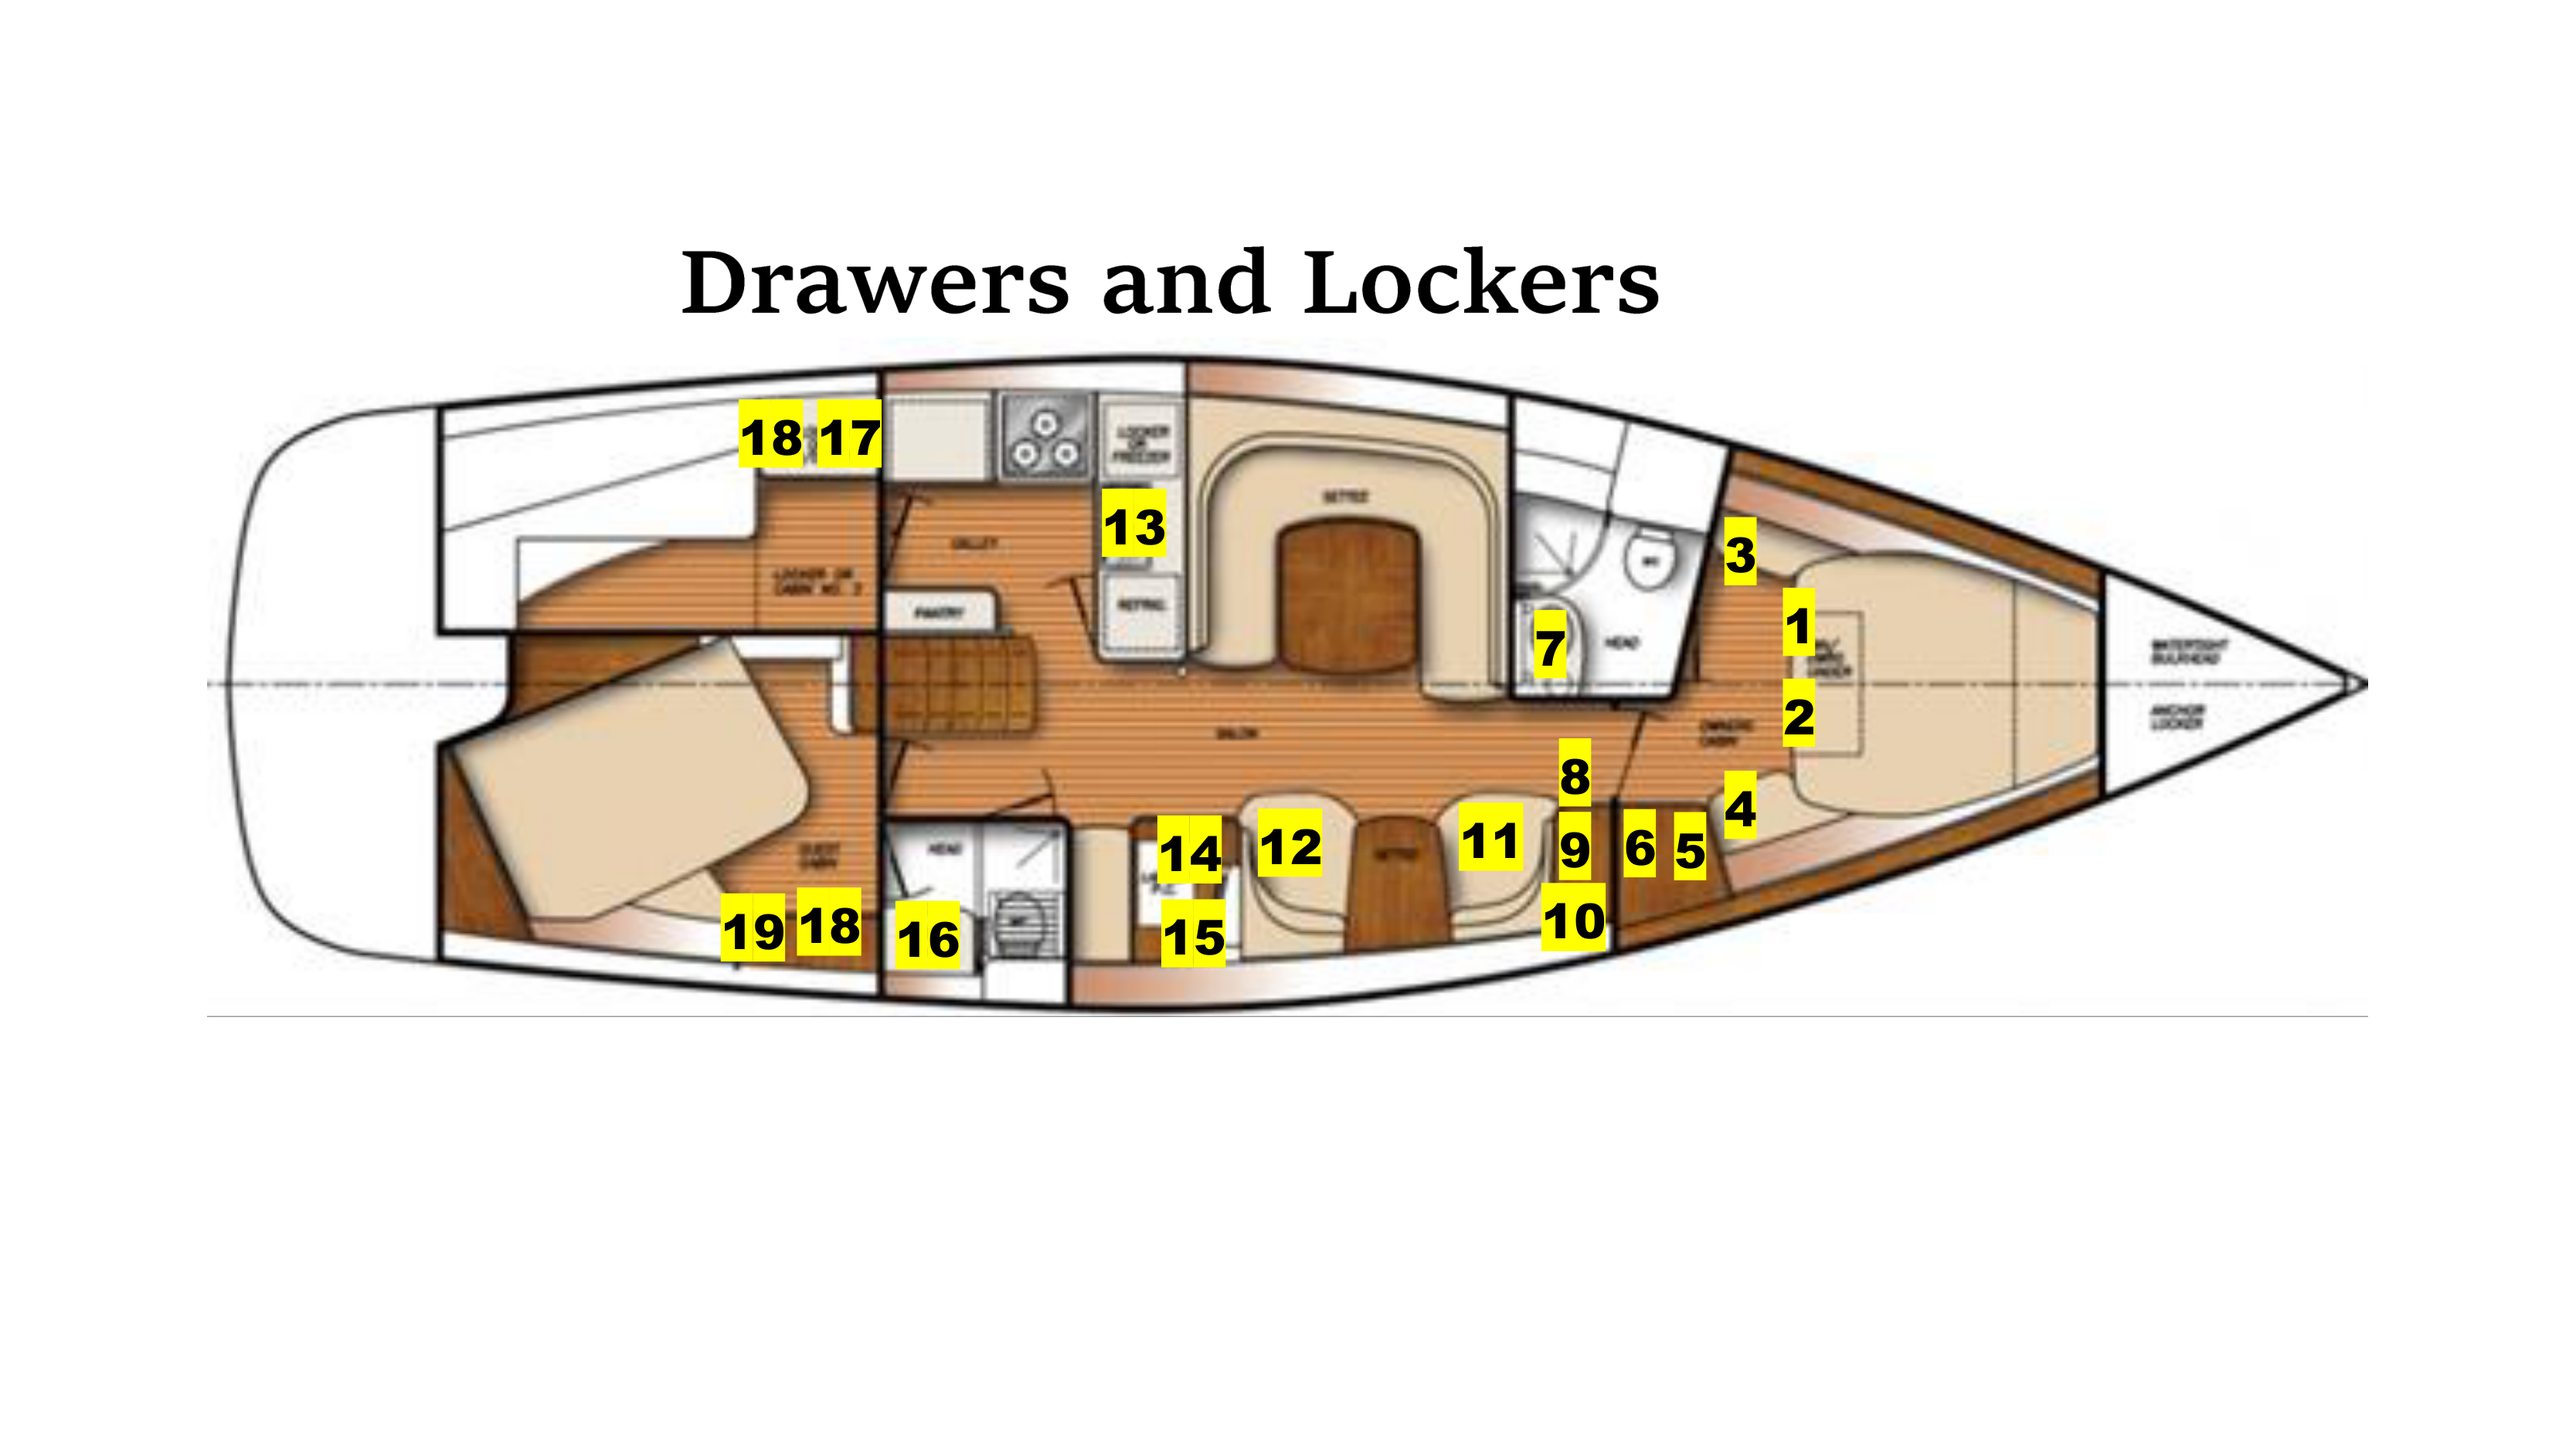
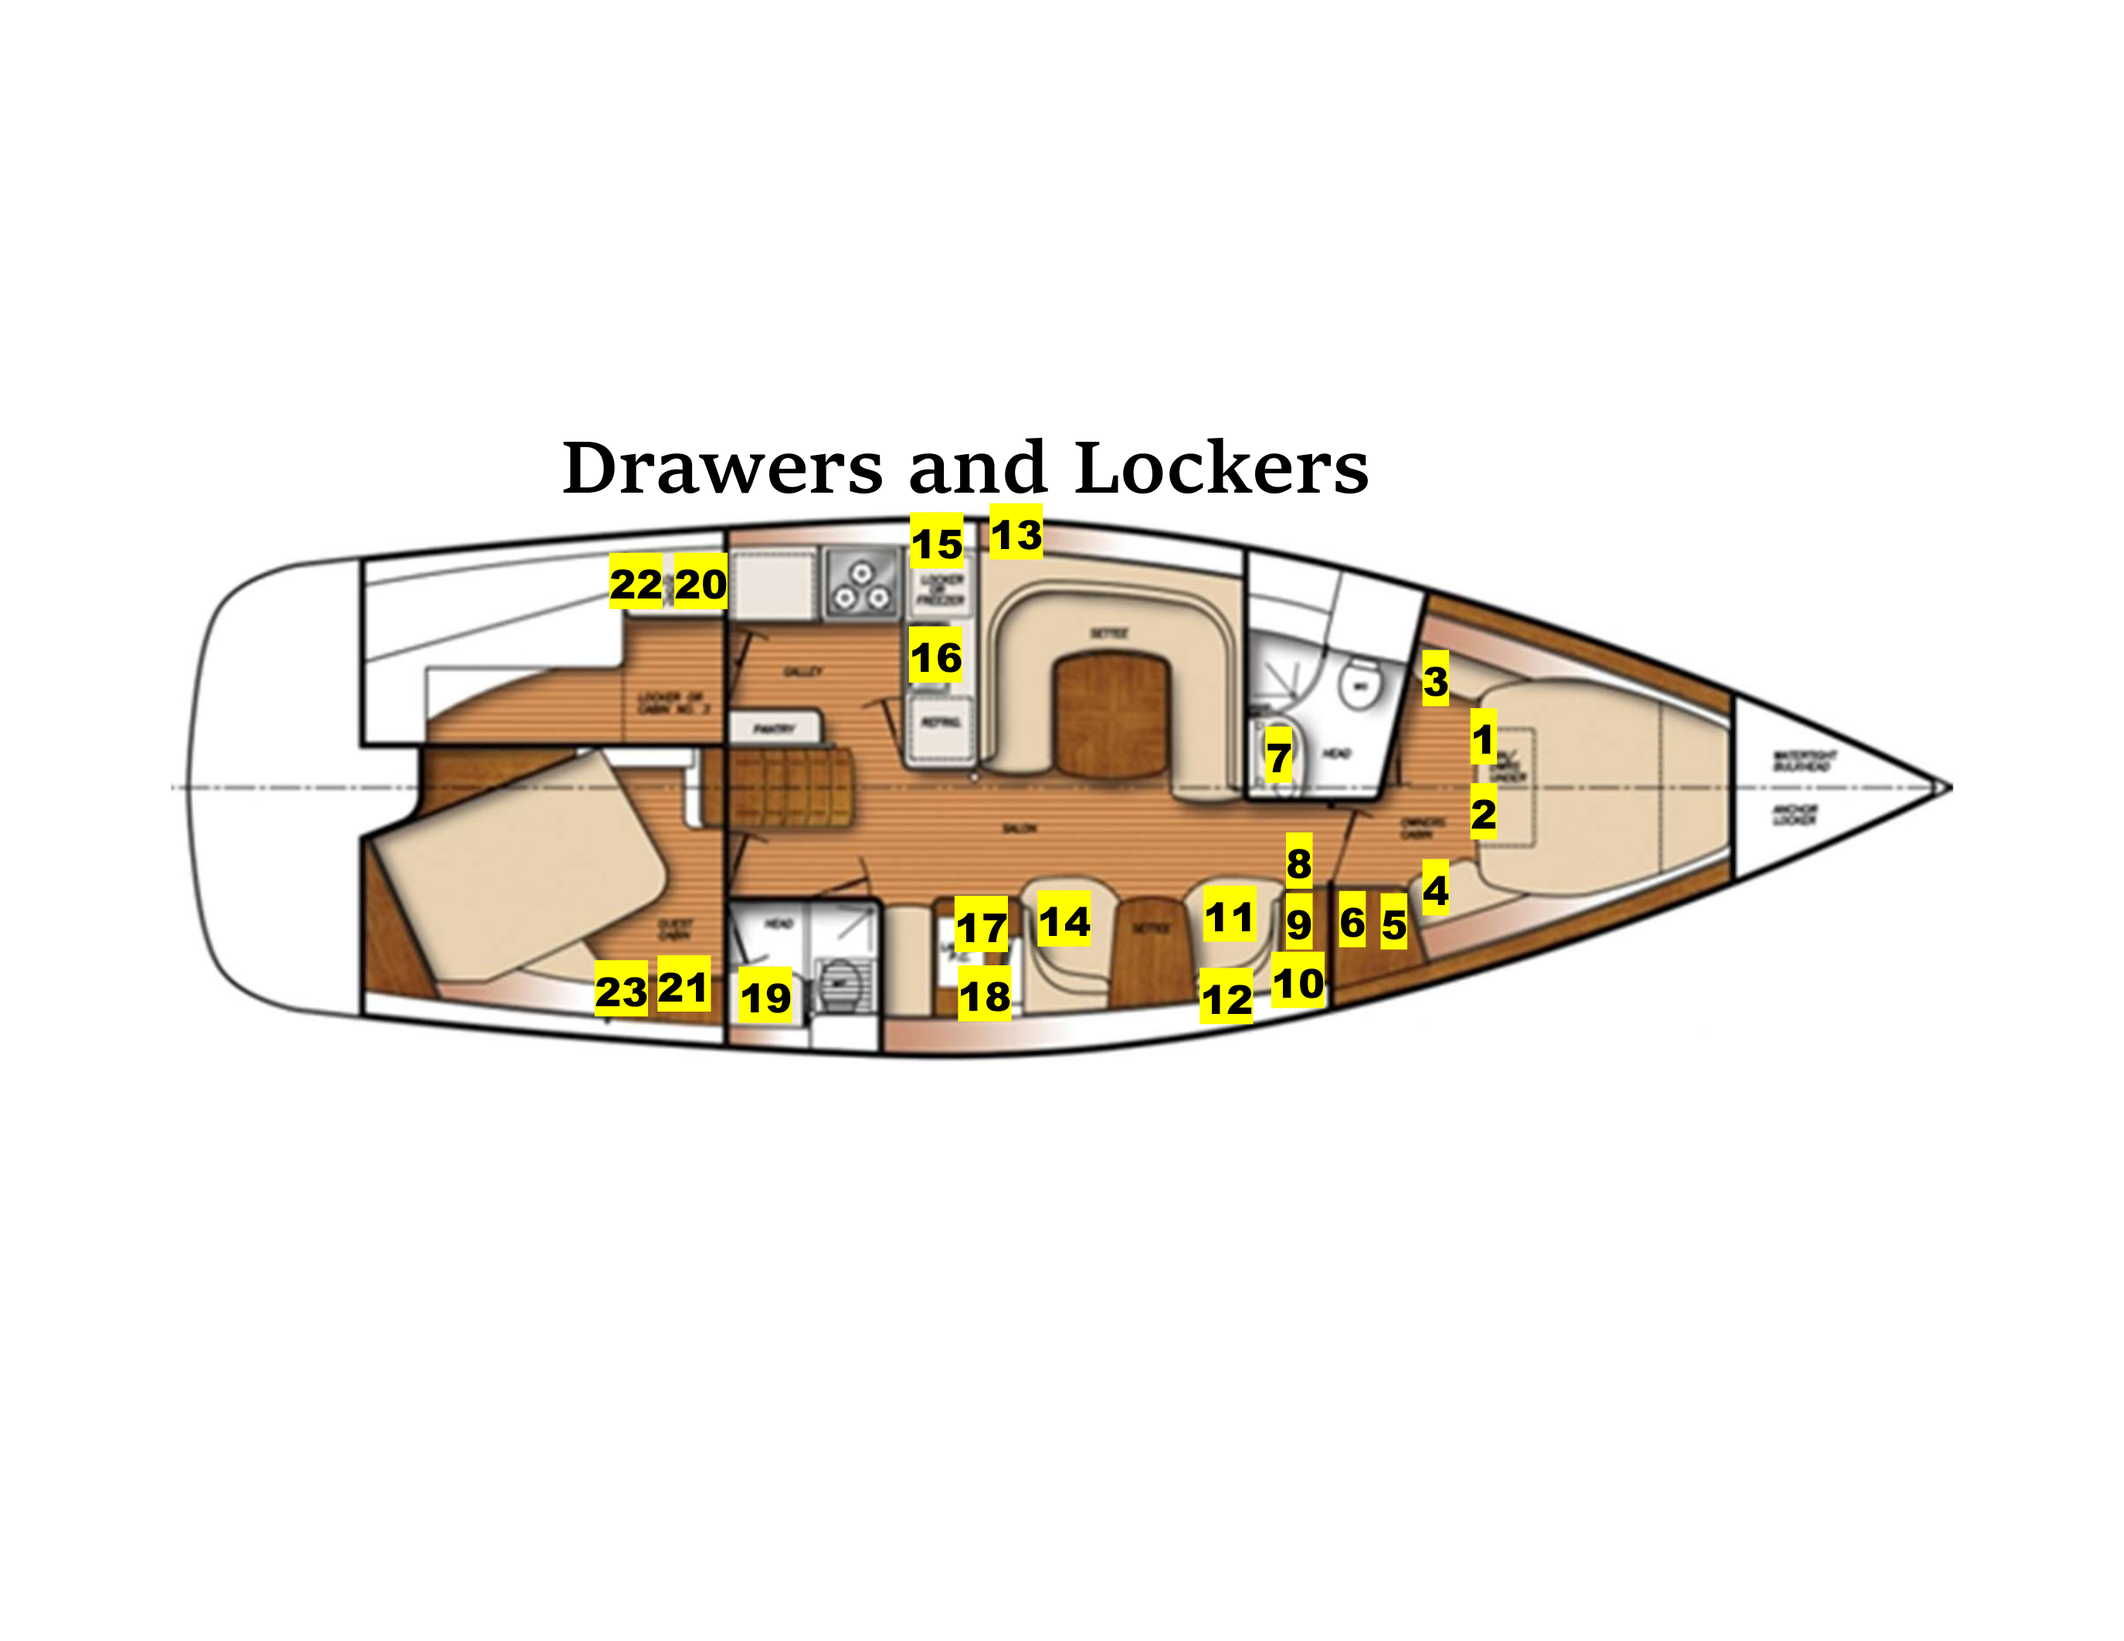
Replace locker diagram with correct SVTwoHappyDrawers PDF source
Uses SVTwoHappyDrawers and Lockers.pdf (2750x2125) instead of CODEX.pdf.
Updates ASPECT_PCT and all circle positions from yellow blob detection
on the correct source drawing.

Changed region(s): [[0.0618, 0.1547, 0.9273, 0.7115]]

diff --git a/src/components/LockerDiagram.jsx b/src/components/LockerDiagram.jsx
@@ -1,35 +1,35 @@
 import { LOCKERS, LOCKER_AREAS } from '../data/lockers'
 
-// Positions as % of image (3334 × 1875), bow=right, stern=left, stbd=top, port=bottom
-// Derived from pixel-detection of yellow label blobs in locker-plan.png via scipy + OCR
+// Positions as % of image (2750 × 2125), bow=right, stern=left, stbd=top, port=bottom
+// Derived from yellow label blob detection on SVTwoHappyDrawers and Lockers.pdf
 const POSITIONS = {
-  'lock-1':  { px: 69.8, py: 42.9 },
-  'lock-2':  { px: 69.8, py: 49.1 },
-  'lock-3':  { px: 67.5, py: 38.0 },
-  'lock-4':  { px: 67.5, py: 55.4 },
-  'lock-5':  { px: 65.6, py: 58.3 },
-  'lock-6':  { px: 63.6, py: 58.1 },
-  'lock-7':  { px: 60.2, py: 44.5 },
-  'lock-8':  { px: 62.0, py: 56.0 },
-  'lock-9':  { px: 61.0, py: 60.0 },
-  'lock-10': { px: 59.5, py: 64.0 },
-  'lock-11': { px: 57.8, py: 57.7 },
-  'lock-12': { px: 50.0, py: 58.1 },
-  'lock-13': { px: 44.0, py: 36.0 },
-  'lock-14': { px: 46.1, py: 58.6 },
-  'lock-15': { px: 46.3, py: 64.4 },
-  'lock-16': { px: 35.9, py: 64.5 },
-  'lock-17': { px: 32.9, py: 29.9 },
-  'lock-18': { px: 29.8, py: 29.8 },
-  'lock-19': { px: 29.2, py: 63.9 },
-  'lock-20': { px: 24.0, py: 28.0 },
-  'lock-21': { px: 24.0, py: 65.0 },
-  'lock-22': { px: 21.0, py: 28.0 },
-  'lock-23': { px: 21.0, py: 65.0 },
+  'lock-1':  { px: 69.8, py: 44.9 },
+  'lock-2':  { px: 69.8, py: 49.4 },
+  'lock-3':  { px: 67.6, py: 41.3 },
+  'lock-4':  { px: 67.6, py: 54.0 },
+  'lock-5':  { px: 65.6, py: 56.1 },
+  'lock-6':  { px: 63.7, py: 56.0 },
+  'lock-7':  { px: 61.2, py: 52.7 },
+  'lock-8':  { px: 61.1, py: 58.4 },
+  'lock-9':  { px: 60.2, py: 46.0 },
+  'lock-10': { px: 57.9, py: 55.7 },
+  'lock-11': { px: 57.7, py: 60.6 },
+  'lock-12': { px: 50.1, py: 56.0 },
+  'lock-13': { px: 47.8, py: 32.4 },
+  'lock-14': { px: 46.3, py: 60.5 },
+  'lock-15': { px: 46.2, py: 56.3 },
+  'lock-16': { px: 44.1, py: 32.9 },
+  'lock-17': { px: 44.0, py: 39.9 },
+  'lock-18': { px: 36.0, py: 60.6 },
+  'lock-19': { px: 33.0, py: 35.4 },
+  'lock-20': { px: 32.2, py: 59.9 },
+  'lock-21': { px: 29.9, py: 35.4 },
+  'lock-22': { px: 29.2, py: 60.2 },
+  'lock-23': { px: 27.0, py: 48.0 },
 }
 
-// 1875/3334 expressed as a percentage for the padding-bottom aspect-ratio trick
-const ASPECT_PCT = (1875 / 3334) * 100  // ≈ 56.24%
+// 2125/2750 expressed as a percentage for the padding-bottom aspect-ratio trick
+const ASPECT_PCT = (2125 / 2750) * 100  // ≈ 77.27%
 
 function itemCount(inv, id) {
   return (inv[id] || []).reduce((s, i) => s + i.qty, 0)
